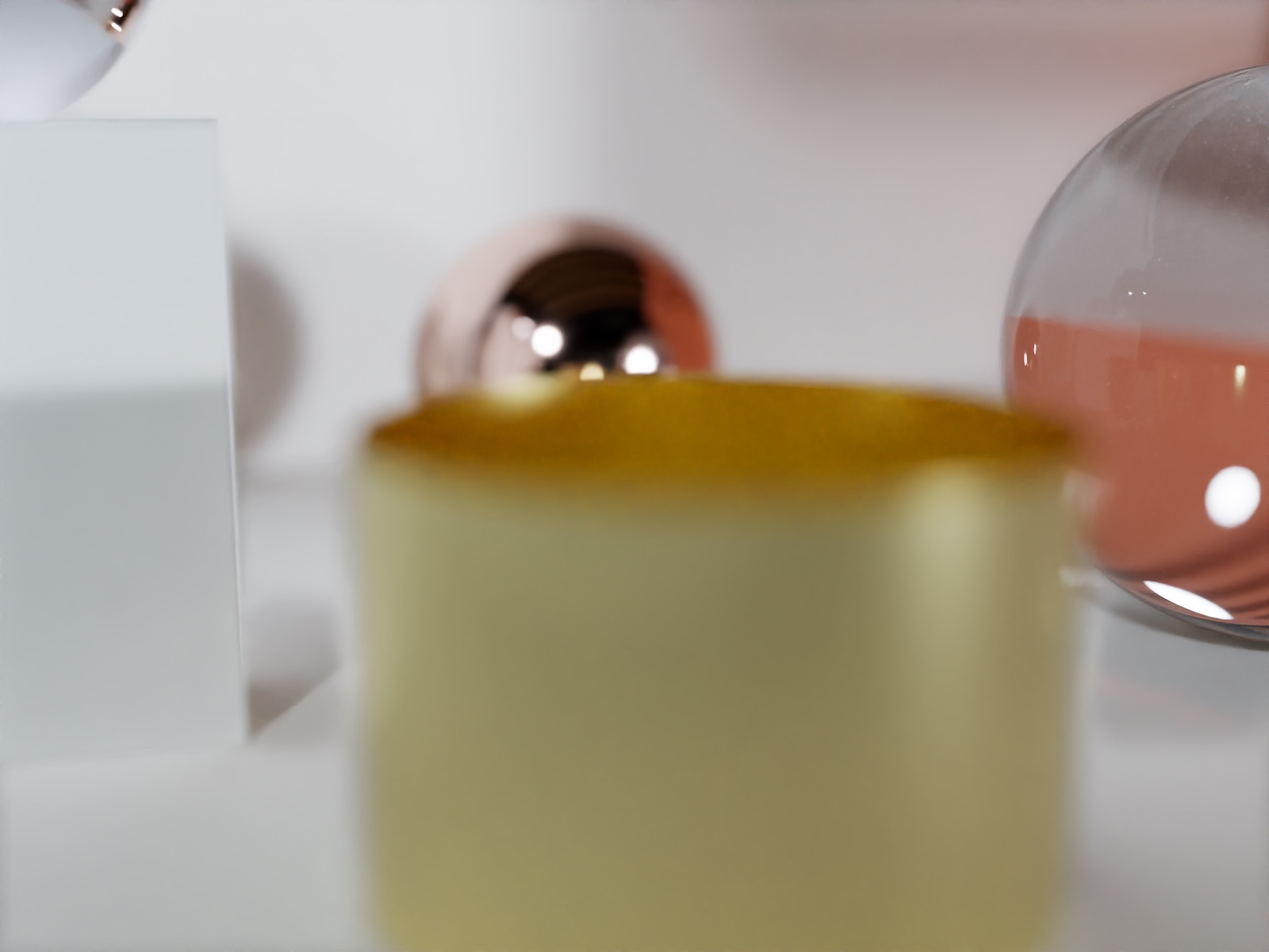
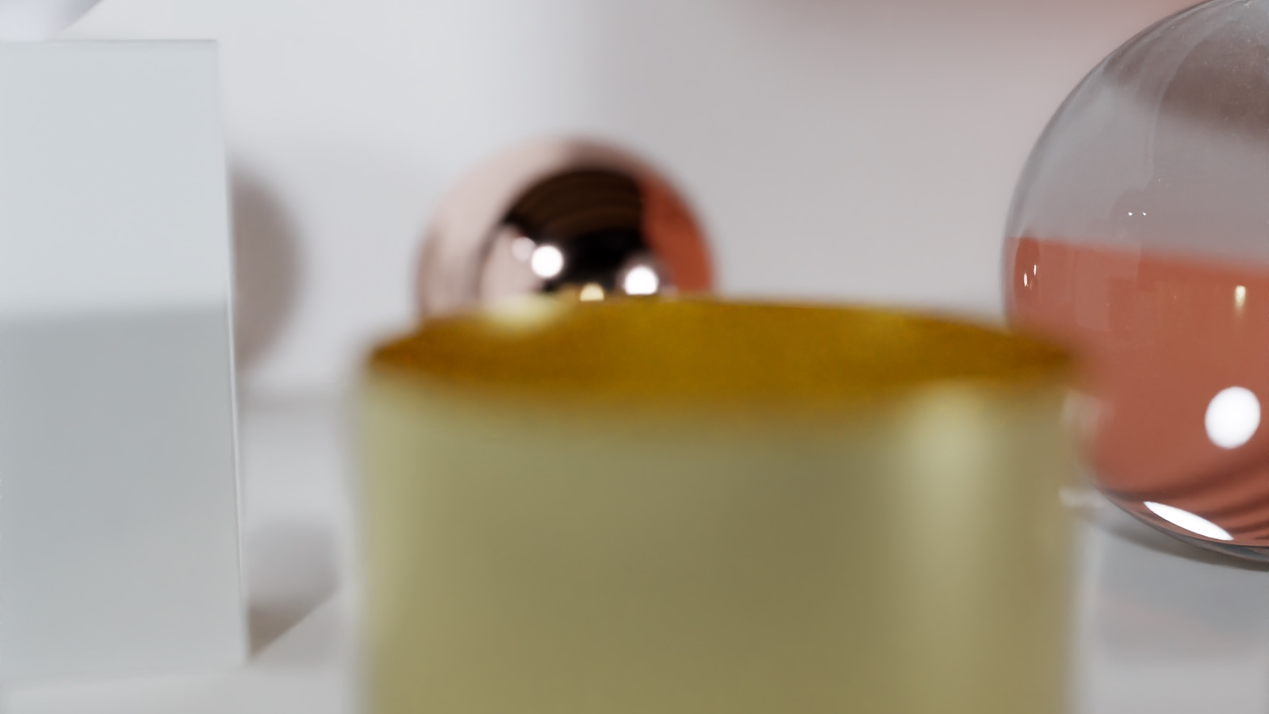
docs: redesign the README around a curated image gallery
Centre the header with badges under the hero render, add highlights, lay
out the gallery as matched-aspect image grids (caustics and OpenUSD,
spectral illuminants, depth of field and twilight sky), summarise
features in a table, and fold build, harness, benchmark and limitation
details into collapsible sections without dropping content. Keep the
side-view Shader Ball (cropped square) and remove the top-down one; crop
the depth-of-field render to 16:9. Attribution docs follow.

diff --git a/README.md b/README.md
@@ -1,60 +1,98 @@
+<div align="center">
+
 # Metal Vibe Tracer
 
-An experimental path tracer for macOS, built with Swift, AppKit, and Metal. Explore lighting and materials in real time, import scenes, and export denoised renders.
+**A spectral GPU path tracer for macOS, built with Swift and Metal.**<br>
+Real-time ReSTIR, OpenPBR materials, OpenUSD import, and denoised exports.
+
+![macOS 26+](https://img.shields.io/badge/macOS-26%2B-000000?logo=apple&logoColor=white)
+![Swift 6](https://img.shields.io/badge/Swift-6-F05138?logo=swift&logoColor=white)
+![Metal](https://img.shields.io/badge/Metal-ray%20tracing-8A8A8A)
+![License: MIT](https://img.shields.io/badge/license-MIT-blue)
+
+</div>
 
 ![Architectural Pavilion lit by an HDRI environment: mirror, copper and glass spheres and a gold cylinder](docs/images/pavilion-hdri.jpg)
 
-## Overview
+<p align="center"><sub>The built-in Pavilion scene lit by an HDRI environment, with spectral transport and a thin-lens camera. 1024 spp, denoised with Open Image Denoise.</sub></p>
 
-Metal Vibe Tracer is a GPU path tracer with an interactive studio UI. It implements recent real-time resampling research (ReSTIR DI, GI and PT, with 2025–2026 papers on reuse and variance reduction) on top of Metal hardware ray tracing, and it supports spectral light transport, OpenPBR materials, MaterialX graphs, and OpenUSD scene import.
+## Highlights
 
-- **Built on research papers:** every adopted method is cited, and [REFERENCES.md](REFERENCES.md) records how each one was adapted and which code implements it.
-- **Defaults chosen by measurement:** each new method is compared with the existing one on error, bias and frame time. It becomes the default only where it wins at equal time. The figures are in [tests/PERFORMANCE.md](tests/PERFORMANCE.md).
-- **Tested on the GPU:** the verification suite runs the production shaders and render path on Metal (179 checks passed on 2026-10-04, Apple M4).
-- **Honest about limitations:** open issues and experimental modes are listed under [Known limitations](#known-limitations).
-
-| Caustics and interreflection | OpenUSD import with OpenPBR shading |
-| --- | --- |
-| ![Cornell box with a mirror sphere and a glass sphere casting a caustic](docs/images/cornell-glass-mirror.jpg) | ![ASWF Standard Shader Ball rendered by Metal Vibe Tracer](docs/images/shaderball-studio.jpg) |
-
-These images were rendered with spectral transport and denoised with Open Image Denoise, through the app's own export path (`python3 scripts/render_showcase.py`). The environments are Poly Haven's Art Studio and Studio Small 01 HDRIs (CC0). The Shader Ball render is an adapted work of the [ASWF Standard Shader Ball](https://github.com/usd-wg/assets/tree/3b75c2dad6a494897557dcca0098257bcf42a8c6/full_assets/StandardShaderBall) by the ASWF USD Working Group (geometry and textures by Chris Rydalch), [CC-BY-4.0](https://creativecommons.org/licenses/by/4.0/). The changes are described in [docs/images/README.md](docs/images/README.md).
+- 🔬 **Recent research, implemented and cited.** ReSTIR DI, GI and PT, plus 2025–2026 papers on spatial reuse, reservoir splatting and control variates. [REFERENCES.md](REFERENCES.md) maps every method to the code that implements it.
+- 🌈 **Spectral light transport.** Four wavelengths per path, CIE illuminants, dispersion and thin-film interference, through every ReSTIR mode.
+- 📏 **Defaults chosen by measurement.** A new method becomes the default only where it wins at equal render time. The figures are in [tests/PERFORMANCE.md](tests/PERFORMANCE.md).
+- 🧪 **Tested on the GPU.** The verification suite runs the production shaders and render path on Metal (179 checks passed on 2026-10-04, Apple M4).
+- 🎬 **Production formats.** OpenPBR surfaces, MaterialX graphs, OpenUSD scenes, and OpenEXR export.
 
 ## Gallery
 
-**Spectral illuminants.** The same Cornell box lit by CIE illuminant A (incandescent), FL11 (narrow-band fluorescent) and HP1 (high-pressure sodium), set with **Light spectrum**. Sodium light has almost no green in its spectrum, so the green wall goes nearly black. RGB transport ignores these presets.
+<table>
+  <tr>
+    <td width="50%"><img src="docs/images/cornell-glass-mirror.jpg" alt="Cornell box with a mirror sphere and a glass sphere casting a caustic"></td>
+    <td width="50%"><img src="docs/images/shaderball-loft.jpg" alt="ASWF Standard Shader Ball imported from OpenUSD, side view, lit by an HDRI"></td>
+  </tr>
+  <tr>
+    <td align="center"><sub><b>Caustics and interreflection.</b> A glass sphere focuses the area light onto the floor.</sub></td>
+    <td align="center"><sub><b>OpenUSD import.</b> The ASWF Standard Shader Ball, with its materials mapped to OpenPBR.</sub></td>
+  </tr>
+</table>
 
-| Incandescent (A) | Fluorescent (FL11) | Sodium (HP1) |
-| --- | --- | --- |
-| ![Cornell box under incandescent light](docs/images/spectral-incandescent-a.jpg) | ![Cornell box under narrow-band fluorescent light](docs/images/spectral-fluorescent-fl11.jpg) | ![Cornell box under sodium light, with a near-black green wall](docs/images/spectral-sodium-hp1.jpg) |
+<table>
+  <tr>
+    <td width="33%"><img src="docs/images/spectral-incandescent-a.jpg" alt="Cornell box under incandescent light"></td>
+    <td width="33%"><img src="docs/images/spectral-fluorescent-fl11.jpg" alt="Cornell box under narrow-band fluorescent light"></td>
+    <td width="33%"><img src="docs/images/spectral-sodium-hp1.jpg" alt="Cornell box under sodium light, with a near-black green wall"></td>
+  </tr>
+  <tr>
+    <td align="center"><sub><b>Incandescent</b> (CIE A)</sub></td>
+    <td align="center"><sub><b>Fluorescent</b> (CIE FL11)</sub></td>
+    <td align="center"><sub><b>Sodium</b> (CIE HP1)</sub></td>
+  </tr>
+</table>
 
-| Thin-lens depth of field | Twilight sky | Shader Ball, side view |
-| --- | --- | --- |
-| ![Pavilion close-up focused on the copper sphere, foreground cylinder out of focus](docs/images/pavilion-depth-of-field.jpg) | ![Pavilion under the twilight sky preset with soft beam shadows](docs/images/pavilion-twilight.jpg) | ![ASWF Standard Shader Ball from the side, lit by an HDRI](docs/images/shaderball-loft.jpg) |
+<p align="center"><sub><b>Spectral illuminants.</b> The same box under three <b>Light spectrum</b> presets. Sodium light has almost no green in its spectrum, so the green wall goes nearly black. RGB transport ignores these presets.</sub></p>
 
-The side-view Shader Ball is under the same CC-BY-4.0 attribution as above, and its environment is Poly Haven's Photo Studio Loft Hall (CC0). Every shot is listed in `scripts/showcase.json`.
+<table>
+  <tr>
+    <td width="50%"><img src="docs/images/pavilion-depth-of-field.jpg" alt="Pavilion close-up focused on the copper sphere, with the foreground cylinder out of focus"></td>
+    <td width="50%"><img src="docs/images/pavilion-twilight.jpg" alt="Pavilion under the twilight sky preset with soft beam shadows"></td>
+  </tr>
+  <tr>
+    <td align="center"><sub><b>Thin-lens depth of field.</b> Focus on the copper sphere, with the gold cylinder in front out of focus.</sub></td>
+    <td align="center"><sub><b>Procedural sky.</b> The Twilight preset, with soft shadows from the roof beams.</sub></td>
+  </tr>
+</table>
+
+<sub>Every image was rendered through the app's own export path with `python3 scripts/render_showcase.py` (shots in [`scripts/showcase.json`](scripts/showcase.json)). The environments are Poly Haven HDRIs (CC0). The Shader Ball render is an adapted work of the [ASWF Standard Shader Ball](https://github.com/usd-wg/assets/tree/3b75c2dad6a494897557dcca0098257bcf42a8c6/full_assets/StandardShaderBall) by the ASWF USD Working Group (geometry and textures by Chris Rydalch), [CC-BY-4.0](https://creativecommons.org/licenses/by/4.0/). The changes are listed in [docs/images/README.md](docs/images/README.md).</sub>
 
 ## Features
 
+| | |
+| --- | --- |
+| **Path tracing** | ReSTIR DI with first-bounce ReSTIR GI on procedural scenes, and ReSTIR PT for imported scenes. Standard MIS, light-only and BSDF-only modes for comparison. |
+| **Light transport** | Spectral (default) or RGB. CIE illuminant presets, dispersion, and thin film. |
+| **Materials** | OpenPBR surfaces, image textures, normal maps, and a subset of MaterialX graphs. |
+| **Scenes** | Six procedural test scenes, OBJ import, and OpenUSD import with hierarchy, instances, materials, lights and cameras. Up to 64 million rendered triangles. |
+| **Acceleration** | Two-level instancing on Metal hardware ray tracing, with an exact software 4-wide BVH as a fallback. |
+| **Camera and lighting** | Thin-lens depth of field, procedural skies, HDRI environments, and editable area lights. |
+| **Denoising** | MetalFX for the interactive preview, and Open Image Denoise for snapshots and exports. |
+| **Viewport** | Beauty, albedo, world normals, depth, and material/roughness views. |
+| **Projects** | Portable `.vtrace` files with embedded assets, saved camera views, undo/redo, and autosave recovery. |
+| **Export** | sRGB PNG and linear HDR OpenEXR (32-bit float) at independent resolutions and sample counts. |
+
+<details>
+<summary><b>Technical details</b></summary>
+
 - **Path tracing:** ReSTIR with Standard MIS, light-only, and BSDF-only comparison modes. Imported scenes use ReSTIR PT, which reuses whole paths, including glossy, mirror and glass paths, with the improvements of ReSTIR PT Enhanced (Lin et al., SIGGRAPH 2022 and I3D 2026; `RESTIRPT2022`, `RESTIRPTE2026` in [REFERENCES.md](REFERENCES.md)). The procedural scenes use ReSTIR direct lighting with first-bounce diffuse ReSTIR GI, which is faster there; its spatial reuse can pick neighbours by compatibility-guided selection (Junkins et al., HPG 2026; `COMPATRESTIR2026`). An opt-in stochastic pairwise MIS spatial reuse (Hedstrom et al., Eurographics 2026; `SPMIS2026`) reuses DI, GI or PT samples from 64-pixel reuse cells without bias. ReSTIR PT shades pixels with spatio-temporal control variates (Shi et al., SIGGRAPH 2026; `RESTCV2026`): colour estimates accumulated over neighbouring pixels and frames, corrected by the reservoirs' own difference estimates, which lowers colour noise without bias.
 - **Light transport:** RGB or spectral. Spectral transport traces four wavelengths per path, after Christoph Peters' spectral rendering series (bounded-MESE reflectance spectra from sRGB, wavelengths importance-sampled by illuminant and colour-matching functions; `PETERS2019`, `FOURIERSRGB2019`, `PETERSBLOG2025`), with CIE illuminant presets for lights and the sun, dispersion and thin film (`HERO2014` for dispersive glass), through every ReSTIR mode. Automatic, the default since October 3, 2026, uses it for every scene.
-- **Materials:** OpenPBR surfaces, image textures, normal maps, and a supported subset of MaterialX graphs.
-- **Scenes:** six procedural test scenes, OBJ import, and OpenUSD scene import with hierarchy, instances, materials, lights, and cameras. Imported meshes are traced as instances through a two-level acceleration structure: Metal hardware ray tracing where a launch-time check finds it watertight (Apple M4 does), otherwise an exact software 4-wide SAH hierarchy. Up to 1,000,000 stored and 64,000,000 rendered triangles.
-- **Lighting:** procedural skies, HDRI environments, editable area lights, and a thin-lens camera.
-- **Denoising:** MetalFX interactive preview and Open Image Denoise for in-app snapshots and offline exports.
-- **Viewport:** beauty, albedo, world normals, depth, and material/roughness views.
-- **Projects:** portable `.vtrace` files with embedded assets stored once each, saved camera views, undo/redo, and autosave recovery.
-- **Export:** sRGB PNG and linear HDR OpenEXR (32-bit float RGB) at independent resolutions and sample counts.
+- **Scenes:** imported meshes are traced as instances through a two-level acceleration structure: Metal hardware ray tracing where a launch-time check finds it watertight (Apple M4 does), otherwise an exact software 4-wide SAH hierarchy. Up to 1,000,000 stored and 64,000,000 rendered triangles.
+- **Thin lens:** a uniform circular aperture and a focus plane perpendicular to the camera's forward axis (`PBRT2023`). The G-buffer, shading and MetalFX guide passes share each pixel's lens sample. It is a thin-lens approximation, not a multi-element optical model.
 
-## Requirements
-
-- macOS 26 or later
-- A Metal-capable GPU; tested on Apple M4
-- Xcode 27 command-line tools (Swift 6.4). The app, the GPU test suite and the benchmark compile in the Swift 6 language mode (`-swift-version 6`), so a Swift 6 toolchain is required.
-- Internet access for the first build
-
-MetalFX preview requires a supported GPU. OpenUSD import uses the command-line tools’ `/usr/bin/python3` (CPython 3.9); the import helper refuses other Python versions with a message.
+</details>
 
 ## Getting started
+
+**Requirements:** macOS 26 or later, a Metal-capable GPU (tested on Apple M4), Xcode 27 command-line tools (Swift 6.4), and internet access for the first build.
 
 ```sh
 git clone https://github.com/gabinfor/metal-vibe-tracer.git
@@ -63,11 +101,20 @@ cd metal-vibe-tracer
 open build/MetalVibeTracer.app
 ```
 
-The first build downloads pinned OpenUSD 26.8 and Open Image Denoise 2.5.0 runtimes, and solves the spectral colour grid from the vendored CIE data (`scripts/generate_spectral_tables.py`, about 100 s on an M4; cached afterwards). Later builds reuse the cache after checking it. The OIDN cache records every file's SHA-256 and the target architecture, so a cache made by an older build is prepared once more. A cached OpenUSD wheel that fails its checksum is moved to `build/usd-wheel/rejected/` and downloaded again. OpenPBR shader sources are vendored, and Metal shaders compile at runtime; the separate Metal command-line toolchain is not required.
+The first build downloads pinned OpenUSD 26.8 and Open Image Denoise 2.5.0 runtimes, and solves the spectral colour grid from the vendored CIE data (about 100 s on an M4; cached afterwards).
+
+<details>
+<summary><b>Build details</b></summary>
+
+The app, the GPU test suite and the benchmark compile in the Swift 6 language mode (`-swift-version 6`), so a Swift 6 toolchain is required. MetalFX preview requires a supported GPU. OpenUSD import uses the command-line tools’ `/usr/bin/python3` (CPython 3.9); the import helper refuses other Python versions with a message.
+
+The spectral colour grid is solved by `scripts/generate_spectral_tables.py`. Later builds reuse the cache after checking it. The OIDN cache records every file's SHA-256 and the target architecture, so a cache made by an older build is prepared once more. A cached OpenUSD wheel that fails its checksum is moved to `build/usd-wheel/rejected/` and downloaded again. OpenPBR shader sources are vendored, and Metal shaders compile at runtime; the separate Metal command-line toolchain is not required.
 
 `build.sh` compiles first and then assembles a staging bundle. `scripts/check_bundle.py` runs the bundled helpers from `/` with a minimal environment, and the staged bundle replaces `build/MetalVibeTracer.app` only if that check passes. The app loads its shaders, USD helper and OIDN runtime from its bundle only, never from the launch directory.
 
 If the checkout is inside iCloud Drive (for example `~/Documents`), the build marks `build/` with `com.apple.fileprovider.ignore#P` so that the roughly 1 GB tree stays local. Older builds may have left conflict copies such as `build/OpenUSD 2` or duplicate `.app` bundles. They are unused and can be deleted by hand. A checkout outside iCloud-synced folders avoids the issue.
+
+</details>
 
 ## Usage
 
@@ -86,36 +133,41 @@ Choose a scene in the inspector, then adjust its camera, lighting, materials, an
 | Frame selection / all imported objects | ⌘F / ⇧⌘F |
 | Close window / minimize / hide | ⌘W / ⌘M / ⌘H |
 
+For a final image, open **Export**, choose a resolution and sample count, and select OIDN, raw, or MetalFX output. See the [user guide](docs/USER_GUIDE.md) for material controls, project behavior, import coverage, and export details.
+
+<details>
+<summary><b>Export and project details</b></summary>
+
 The **Window** menu provides Minimize, Zoom and Bring All to Front. ⌘E and **Settings…** reveal the inspector if it is hidden.
 
-Use **OIDN Preview Current Frame** to denoise the current accumulation inside the app. For a final image, open **Export**, choose a resolution and sample count, and select OIDN, raw, or MetalFX output. PNG includes display adjustments and is sRGB-encoded. OpenEXR stores linear HDR radiance as 32-bit float RGB without an alpha channel, so values above 65504 are kept. MetalFX output, in the preview or in an export, is a display estimate, not radiometric data. The suite measured MetalFX/raw region-mean ratios of 1.03 on diffuse Cornell surfaces, 0.87 on diffuse Pavilion surfaces, 0.69 on reflective regions and 0.77 on the grazing gold cylinder. For linear radiance, export the raw or OIDN source as OpenEXR.
+Use **OIDN Preview Current Frame** to denoise the current accumulation inside the app. PNG includes display adjustments and is sRGB-encoded. OpenEXR stores linear HDR radiance as 32-bit float RGB without an alpha channel, so values above 65504 are kept. MetalFX output, in the preview or in an export, is a display estimate, not radiometric data. The suite measured MetalFX/raw region-mean ratios of 1.03 on diffuse Cornell surfaces, 0.87 on diffuse Pavilion surfaces, 0.69 on reflective regions and 0.77 on the grazing gold cylinder. For linear radiance, export the raw or OIDN source as OpenEXR.
 
 Projects embed imported assets and can be reopened without the original files. Since project format 3, each distinct image, environment or mesh is stored once per file, and autosaves write only assets that changed, as separate sidecar files. Older projects open and are saved as format 3; builds from before this change cannot open format-3 projects. Open, New and Open USD Scene ask Save / Don't Save / Cancel when the document has unsaved changes; a replaced unsaved document is also kept as `Autosave-previous.vtrace`. The app restores its latest autosave on startup, together with its project file association and edited state. An autosave that cannot be restored is moved aside as `Autosave-unrestorable-<date>.vtrace` and never overwritten. Quit waits for pending saves.
 
-See the [user guide](docs/USER_GUIDE.md) for material controls, project behavior, import coverage, and export details.
+</details>
 
-## Example assets
+### Example assets
 
 - [MaterialX examples](Examples/MaterialX/README.md)
 - [OpenUSD examples and reference scenes](Examples/OpenUSD/README.md)
-- [Poly Haven HDRI test selection](Examples/HDRI/README.md)
-
-To download the optional 4K HDRI selection locally (needed by `scripts/render_showcase.py`, which renders the README images through the export path):
-
-```sh
-python3 scripts/fetch_test_hdris.py
-```
+- [Poly Haven HDRI test selection](Examples/HDRI/README.md). Download it with `python3 scripts/fetch_test_hdris.py`. `scripts/render_showcase.py` needs it to render the README images.
 
 ## Development
 
 The renderer and embedded Metal kernels live in `main.swift`. App controls, project handling, importers, and export code are in `Sources/`.
 
 ```sh
-./build.sh
-python3 tests/verify.py
+./build.sh                                # build the app bundle
+python3 tests/verify.py                   # run the GPU verification suite
+MTL_DEBUG_LAYER=1 python3 tests/verify.py # with Metal API validation
+python3 tests/benchmark.py                # time the production render path
+python3 scripts/render_showcase.py        # re-render the README images
 ```
 
-The verification suite runs the production shaders on Metal and checks rendering, materials, denoising, imports, project persistence, and UI construction. GPU checks go through the production `PathTracerRenderer.renderFrame` path. GPU access is required. Native file dialogs and mouse interactions require manual checks.
+The verification suite runs the production shaders on Metal and checks rendering, materials, denoising, imports, project persistence, and UI construction. GPU checks go through the production `PathTracerRenderer.renderFrame` path. Native file dialogs and mouse interactions require manual checks.
+
+<details>
+<summary><b>Test harness and benchmark details</b></summary>
 
 `python3 tests/verify.py [--studio-only | --usd-only] [--require-reference]` runs the full suite, the Studio subset, or the OpenUSD subset. `--require-reference` makes a missing ASWF Shader Ball download fail instead of being skipped with a message. Unknown flags are rejected.
 
@@ -123,22 +175,23 @@ The verification suite runs the production shaders on Metal and checks rendering
 
 Each run writes diagnostic images and fixtures to its own `build/checks/runs/verify-<time>-<pid>/` directory, and `build/checks/latest` points to the newest run. The last three runs are kept. On GPUs without MetalFX's temporal denoised scaler, the MetalFX checks print `SKIP` and the suite exercises the raw fallback path instead.
 
-For Metal API validation:
-
-```sh
-MTL_DEBUG_LAYER=1 python3 tests/verify.py
-```
-
-The September 2026 audit, its remediation and the 2026-10-04 validation are archived in
-[docs/archive/](docs/archive/README.md).
-The application is currently distributed as an unsigned local build; signing,
-notarization, and clean-machine installation remain release packaging work.
-
 `python3 tests/benchmark.py [--baseline /path/to/previous/main.swift] [--report FILE] [--frames 12] [--rounds 2] [--output-tolerance 0.05]` times the production `renderFrame` path on fixed scenes. A baseline's shaders are compared only when their Uniforms layout, argument-buffer length and kernel bindings match the current host code, and each scenario's mean raw radiance agrees within `--output-tolerance`. Otherwise no timings are printed. Current measurements, from September 28, 2026 at `84db5e3`, are in [tests/PERFORMANCE.md](tests/PERFORMANCE.md), with the unedited report in [tests/PERFORMANCE-raw.txt](tests/PERFORMANCE-raw.txt). The October 2 Z++ sampler figures (static, moving-camera and MetalFX error, bias and time against PCG) head that file, with their raw measurements in [tests/PERFORMANCE-zsampling-raw.txt](tests/PERFORMANCE-zsampling-raw.txt); the September 29 figures for spatio-temporal control variates (per-frame, MetalFX and static error, bias, time and memory against resampled shading) follow, with their raw measurements in [tests/PERFORMANCE-restcv-raw.txt](tests/PERFORMANCE-restcv-raw.txt); the stochastic pairwise MIS figures follow, with theirs in [tests/PERFORMANCE-spmis-raw.txt](tests/PERFORMANCE-spmis-raw.txt). The September 29 reservoir-splatting figures (moving-camera error in disoccluded pixels, time, memory and bias against reprojection) follow, with their raw measurements in [tests/PERFORMANCE-splatting-raw.txt](tests/PERFORMANCE-splatting-raw.txt); the September 29 ReSTIR PT figures (error, bias, time and memory against ReSTIR GI) follow, with their reports in [tests/PERFORMANCE-restir-pt-raw.txt](tests/PERFORMANCE-restir-pt-raw.txt); the September 29 spatial neighbour selection figures follow, with their report in [tests/PERFORMANCE-neighbors-raw.txt](tests/PERFORMANCE-neighbors-raw.txt). Earlier speedup figures, which predate ReSTIR GI and could not be reproduced, have been withdrawn.
 
-See [REFERENCES.md](REFERENCES.md) for algorithm sources, dependency versions, and implementation adaptations.
+`scripts/render_showcase.py` renders the shots in `scripts/showcase.json` through `StudioController.startExport` with Open Image Denoise, as Export does in the app. `--scale` and `--samples` override every shot for quick framing previews.
+
+</details>
+
+The September 2026 audit, its remediation and the 2026-10-04 validation are archived in [docs/archive/](docs/archive/README.md). The application is currently distributed as an unsigned local build; signing, notarization, and clean-machine installation remain release packaging work. See [REFERENCES.md](REFERENCES.md) for algorithm sources, dependency versions, and implementation adaptations.
 
 ## Known limitations
+
+- **ReSTIR PT costs 1.3–2.3× the frame time**, so it is the default only for imported scenes, where it wins at equal time. Procedural scenes use first-bounce ReSTIR GI.
+- **Some spectral features are experimental.** Spectral MIS for rough dispersive glass measured about 4× the default's error (an open issue), and the sky models and imported UsdLux spectra are not spectral.
+- **Import coverage is partial.** OpenUSD import is a snapshot (no animation, subdivision, volumes, curves or USD export), and MaterialX support is a bounded importer.
+- **Fog and the ring-caustic boost** are approximate preview effects.
+
+<details>
+<summary><b>All limitations, with measurements</b></summary>
 
 - On the procedural scenes, ReSTIR GI reuses only the first diffuse indirect vertex; deeper and glossy transport use ordinary path tracing, and its practical reuse is biased by up to +0.25% of mean radiance. ReSTIR PT reuses every path and agreed with MIS within ±0.1%, but its shifts cost 1.3–2.3× the frame time: on the procedural scenes it lowers error by 0–20% at equal sample count but raises it by 22–105% at equal time, so the default (`IndirectReuse.automatic`) uses it only for imported scenes, where it wins at equal time (8–25% lower error). While the camera moves it lowers per-frame error by 37–75% in most scenes, at 1.7–3.6× the frame time. The **Indirect reuse** popup on the Render page overrides the default per project. Test builds (`-D VIBE_TESTING`) change the default everywhere with `VIBE_INDIRECT_REUSE=gi|pt|unified`. Use Standard MIS with fog and ring boost disabled for reference comparisons: at equal time it beats both ReSTIR modes for converged images on most scenes.
 - ReSTIR PT reuses temporally only while the view changes; its duplication-map decorrelation (biased) is off, and replay stream compaction, light tiles and dual motion vectors are not implemented.
@@ -154,11 +207,11 @@ See [REFERENCES.md](REFERENCES.md) for algorithm sources, dependency versions, a
 - MetalFX can soften detail. OIDN works on the accumulated image; raw output remains available for comparison.
 - Fog and the optional ring-caustic boost are approximate preview effects.
 
+</details>
+
 ## Acknowledgments
 
-Built with Apple Metal and MetalFX, Adobe OpenPBR, OpenUSD, and Intel Open Image Denoise. Optional HDRI test assets are from Poly Haven under CC0.
-
-Third-party licenses and attribution are retained with the vendored dependencies and bundled resources. Full citations and implementation notes are in [REFERENCES.md](REFERENCES.md).
+Built with Apple Metal and MetalFX, Adobe OpenPBR, OpenUSD, and Intel Open Image Denoise. HDRI environments are from Poly Haven under CC0. Third-party licenses and attribution are retained with the vendored dependencies and bundled resources. Full citations and implementation notes are in [REFERENCES.md](REFERENCES.md).
 
 ## License
 

diff --git a/REFERENCES.md b/REFERENCES.md
@@ -336,7 +336,7 @@ Carsten Benthin, Daniel Meister, Joshua Barczak, Rohan Mehalwal, John Tsakok, an
 
 Poly Haven, **Art Studio**, **Studio Small 01**, and **Photo Studio Loft Hall** environment maps. [Poly Haven HDRIs](https://polyhaven.com/hdris), CC0; individual asset pages are linked from `Examples/HDRI/README.md`. Retrieved 2026-09-07.
 
-**Used in:** `scripts/fetch_test_hdris.py` and the local files under `Examples/HDRI`. These are optional regression inputs and are not bundled with the application or redistributed by this repository. Since 2026-10-20 `scripts/render_showcase.py` also uses all three maps to light README images (`docs/images/pavilion-hdri.jpg`, `pavilion-depth-of-field.jpg`, `shaderball-studio.jpg`, `shaderball-loft.jpg`). Those renders are in the repository; the maps themselves are not. Since 2026-09-26 the script pins each 4K file's byte size and SHA-256 (listed in `Examples/HDRI/README.md`). It downloads to a temporary file and replaces a local copy only when the pinned values match.
+**Used in:** `scripts/fetch_test_hdris.py` and the local files under `Examples/HDRI`. These are optional regression inputs and are not bundled with the application or redistributed by this repository. Since 2026-10-20 `scripts/render_showcase.py` also uses all three maps to light README images (`docs/images/pavilion-hdri.jpg`, `pavilion-depth-of-field.jpg`, `shaderball-loft.jpg`). Those renders are in the repository; the maps themselves are not. Since 2026-09-26 the script pins each 4K file's byte size and SHA-256 (listed in `Examples/HDRI/README.md`). It downloads to a temporary file and replaces a local copy only when the pinned values match.
 
 ## Surface reflection
 
@@ -686,7 +686,7 @@ Cornell University Program of Computer Graphics. **Cornell Box Comparison.** Onl
 
 ASWF USD Working Group. **Standard Shader Ball**, repository revision `3b75c2dad6a494897557dcca0098257bcf42a8c6`. Geometry/textures: Chris Rydalch; specification/validation: André Mazzone. [Primary asset and documentation](https://github.com/usd-wg/assets/tree/3b75c2dad6a494897557dcca0098257bcf42a8c6/full_assets/StandardShaderBall). CC-BY-4.0; complete LICENCE/README retained by the downloader. This reimplementation acknowledges Thomas Anagnostou's original Simball inspiration; its documentation shows Houdini Karma renders.
 
-**Used in:** `scripts/fetch_reference_scene.py`, `Examples/OpenUSD/ShaderBall-triangulated.usda`, and optional `tests/USDChecks.swift` integration rendering. The local override selects triangulated surface geometry and the USD PreviewSurface plastic variant at frame 3. The original source is unchanged. The imported scene has 63,882 triangles including five rectangle lights; internal subdivision cages remain in the import report. Since 2026-09-28 no material falls back: the `neutral` material's OpenPBR `emission_luminance`/`emission_color` connect to an `image` that has no file in the default `internal_emitter = "off"` variant, which now evaluates to its zero default (`MATERIALX`). `tests/Fix_shaderball-emission.swift` asserts zero fallbacks, and imports the `internal_emitter = "bulb"` variant, whose clamped `emitter_bulb.exr` drives the same graph, to check that the neutral emission joins the light list and renders. This is an interoperability/visual inspection reference, not a validated pixel match to Karma. Downloads, generated `.vtrace` snapshots (`usd/StandardShaderBall-audit.vtrace`, `usd/import-report-audit.txt`) and PNGs (`openusd-audit-reference.png`) stay under ignored `build/reference-scenes` (downloads) and the per-run test directory `build/checks/runs/verify-*` (outputs; `build/checks/latest` points to the newest run). They are not bundled with the app. `tests/verify.py --require-reference` makes a missing download fail instead of skipping, and the check asserts the import counts. **Exception:** the repository contains two derived renders, `docs/images/shaderball-studio.jpg` and `docs/images/shaderball-loft.jpg`. Metal Vibe Tracer rendered them from this scene on 2026-10-20 with `scripts/render_showcase.py`, adding a `POLYHAVENHDRI` environment (Studio Small 01, Photo Studio Loft Hall). It replaces `docs/images/openusd-reference.png` (added 2026-09-08, re-added 2026-09-21, removed 2026-10-20). As adapted CC-BY-4.0 works, they carry adjacent attribution and a statement of changes in [docs/images/README.md](docs/images/README.md), `THIRD_PARTY_NOTICES.md`, and the README captions that show them.
+**Used in:** `scripts/fetch_reference_scene.py`, `Examples/OpenUSD/ShaderBall-triangulated.usda`, and optional `tests/USDChecks.swift` integration rendering. The local override selects triangulated surface geometry and the USD PreviewSurface plastic variant at frame 3. The original source is unchanged. The imported scene has 63,882 triangles including five rectangle lights; internal subdivision cages remain in the import report. Since 2026-09-28 no material falls back: the `neutral` material's OpenPBR `emission_luminance`/`emission_color` connect to an `image` that has no file in the default `internal_emitter = "off"` variant, which now evaluates to its zero default (`MATERIALX`). `tests/Fix_shaderball-emission.swift` asserts zero fallbacks, and imports the `internal_emitter = "bulb"` variant, whose clamped `emitter_bulb.exr` drives the same graph, to check that the neutral emission joins the light list and renders. This is an interoperability/visual inspection reference, not a validated pixel match to Karma. Downloads, generated `.vtrace` snapshots (`usd/StandardShaderBall-audit.vtrace`, `usd/import-report-audit.txt`) and PNGs (`openusd-audit-reference.png`) stay under ignored `build/reference-scenes` (downloads) and the per-run test directory `build/checks/runs/verify-*` (outputs; `build/checks/latest` points to the newest run). They are not bundled with the app. `tests/verify.py --require-reference` makes a missing download fail instead of skipping, and the check asserts the import counts. **Exception:** the repository contains one derived render, `docs/images/shaderball-loft.jpg`. Metal Vibe Tracer rendered it from this scene on 2026-10-20 with `scripts/render_showcase.py`, adding the `POLYHAVENHDRI` Photo Studio Loft Hall environment. It replaces `docs/images/openusd-reference.png` (added 2026-09-08, re-added 2026-09-21, removed 2026-10-20). As an adapted CC-BY-4.0 work, it carries adjacent attribution and a statement of changes in [docs/images/README.md](docs/images/README.md), `THIRD_PARTY_NOTICES.md`, and the README caption that shows it.
 
 ### ORCA_BISTRO — Larger reference candidate, not imported
 

diff --git a/docs/images/README.md b/docs/images/README.md
@@ -2,25 +2,24 @@
 
 Metal Vibe Tracer rendered these images for the project documentation. They are not bundled with the application.
 
-The README images were rendered on 2026-10-20 on an Apple M4 with the renderer of `8bd999a` with `python3 scripts/render_showcase.py`. The script reads the shots from `scripts/showcase.json` and exports each one through the app's Export path (`StudioController.startExport`, spectral transport by default, Open Image Denoise). The PNG output was converted to JPEG (quality 90) with `sips`.
+The README images were rendered on 2026-10-20 on an Apple M4 with `python3 scripts/render_showcase.py`, using the renderer code of `8bd999a`. The script reads the shots from `scripts/showcase.json` and exports each one through the app's Export path (`StudioController.startExport`, spectral transport by default, Open Image Denoise). The PNG output was cropped where noted and converted to JPEG (quality 90) with `sips`.
 
 | File | Content |
 | --- | --- |
 | `pavilion-hdri.jpg` | Built-in Architectural Pavilion lit by the Poly Haven **Art Studio** HDRI (CC0), with a thin-lens camera. 1920×1080, 1024 spp. |
 | `cornell-glass-mirror.jpg` | Built-in Cornell Glass & Mirror scene, showing the glass sphere's caustic. 1200×1200, 1024 spp. |
-| `shaderball-studio.jpg` | ASWF Standard Shader Ball imported from OpenUSD and lit by the Poly Haven **Studio Small 01** HDRI (CC0). 1600×1200, 512 spp (attribution below). |
 | `spectral-incandescent-a.jpg`, `spectral-fluorescent-fl11.jpg`, `spectral-sodium-hp1.jpg` | Built-in Cornell Glass & Mirror scene with the area light's **Light spectrum** set to CIE A, FL11 and HP1. 1000×1000, 1024 spp each. |
-| `pavilion-depth-of-field.jpg` | Built-in Pavilion close-up with a 0.09 aperture radius focused on the copper sphere, lit by the Poly Haven **Studio Small 01** HDRI (CC0). 1600×1200, 1024 spp. |
+| `pavilion-depth-of-field.jpg` | Built-in Pavilion close-up with a 0.09 aperture radius focused on the copper sphere, lit by the Poly Haven **Studio Small 01** HDRI (CC0). Rendered at 1600×1200, 1024 spp, and cropped to 1600×900 (rows 100–999) to match the twilight image beside it. |
 | `pavilion-twilight.jpg` | Built-in Pavilion under the **Twilight / Studio** sky preset, with the light spectrum set to CIE A. 1920×1080, 1024 spp. |
-| `shaderball-loft.jpg` | ASWF Standard Shader Ball, side view, lit by the Poly Haven **Photo Studio Loft Hall** HDRI (CC0). 1600×1200, 512 spp (attribution below). |
+| `shaderball-loft.jpg` | ASWF Standard Shader Ball, side view, lit by the Poly Haven **Photo Studio Loft Hall** HDRI (CC0). Rendered at 1600×1200, 512 spp, and cropped to 1200×1200 (columns 380–1579) to match the Cornell image beside it (attribution below). |
 | `grazing-cylinder.png` | Built-in grazing-angle cylinder regression comparison (commit `86f8c7d`, 2026-09-08). Not shown in the README. |
 
-## Attribution: `shaderball-studio.jpg` and `shaderball-loft.jpg`
+## Attribution: `shaderball-loft.jpg`
 
-These images are adapted works: a render of the **ASWF Standard Shader Ball** by the ASWF USD Working Group. Geometry and textures are by Chris Rydalch; specification and validation are by André Mazzone. The asset is inspired by Thomas Anagnostou's Simball.
+This image is an adapted work: a render of the **ASWF Standard Shader Ball** by the ASWF USD Working Group. Geometry and textures are by Chris Rydalch; specification and validation are by André Mazzone. The asset is inspired by Thomas Anagnostou's Simball.
 
 - Source: https://github.com/usd-wg/assets/tree/3b75c2dad6a494897557dcca0098257bcf42a8c6/full_assets/StandardShaderBall (pinned commit `3b75c2dad6a494897557dcca0098257bcf42a8c6`)
 - License: Creative Commons Attribution 4.0 International (CC-BY-4.0), https://creativecommons.org/licenses/by/4.0/
-- Changes: `scripts/fetch_reference_scene.py` added a separate override layer that selects the triangulated geometry and the USD PreviewSurface plastic variant at frame 3. The official OpenUSD SDK imported the scene into a flattened snapshot, which mapped supported PreviewSurface shading approximately to OpenPBR and reported the fallbacks. Metal Vibe Tracer then rendered it with its own path tracer, with a Poly Haven environment (Studio Small 01 or Photo Studio Loft Hall) added to the scene's own lights. The renders are not a pixel match to the Houdini Karma renders in the asset's documentation. The source asset files are unchanged.
+- Changes: `scripts/fetch_reference_scene.py` added a separate override layer that selects the triangulated geometry and the USD PreviewSurface plastic variant at frame 3. The official OpenUSD SDK imported the scene into a flattened snapshot, which mapped supported PreviewSurface shading approximately to OpenPBR and reported the fallbacks. Metal Vibe Tracer then rendered it with its own path tracer, with the Poly Haven Photo Studio Loft Hall environment added to the scene's own lights. The render is not a pixel match to the Houdini Karma renders in the asset's documentation. The source asset files are unchanged.
 
-Anyone sharing these images must keep this attribution and the license link (CC-BY-4.0, section 3). See `THIRD_PARTY_NOTICES.md` and `REFERENCES.md` (`ASWF_SHADERBALL`).
+Anyone sharing this image must keep this attribution and the license link (CC-BY-4.0, section 3). See `THIRD_PARTY_NOTICES.md` and `REFERENCES.md` (`ASWF_SHADERBALL`).

diff --git a/Examples/OpenUSD/README.md b/Examples/OpenUSD/README.md
@@ -24,7 +24,7 @@ Run `MTL_DEBUG_LAYER=1 python3 tests/verify.py --usd-only` to import through the
 
 Each run writes to its own directory, `build/checks/runs/verify-<time>-<pid>/`. `build/checks/latest` points to the newest run, and older runs beyond the last three are removed.
 
-Without the download the check is skipped with a message. Add `--require-reference` to make a missing scene fail instead. Earlier runs wrote `StandardShaderBall.vtrace`, `import-report.txt` and their `-audit` variants into `build/reference-scenes/`, and `openusd-reference.png` or `openusd-audit-reference.png` directly into `build/checks/`. Those files are stale. The repository copies `docs/images/shaderball-studio.jpg` and `shaderball-loft.jpg` are 2026-10-20 renders made by `scripts/render_showcase.py` from a fresh import of `ShaderBall-triangulated.usda`, and their CC-BY-4.0 attribution is in `docs/images/README.md`.
+Without the download the check is skipped with a message. Add `--require-reference` to make a missing scene fail instead. Earlier runs wrote `StandardShaderBall.vtrace`, `import-report.txt` and their `-audit` variants into `build/reference-scenes/`, and `openusd-reference.png` or `openusd-audit-reference.png` directly into `build/checks/`. Those files are stale. The repository copy `docs/images/shaderball-loft.jpg` is a 2026-10-20 render made by `scripts/render_showcase.py` from a fresh import of `ShaderBall-triangulated.usda`, and its CC-BY-4.0 attribution is in `docs/images/README.md`.
 
 This establishes a usable scene for visual inspection. It is **not yet a matched Karma benchmark**: three internal objects use subdivision control cages; PreviewSurface maps approximately to OpenPBR; ACEScg/OCIO transforms are absent. The unused external MaterialX variants also generate warnings because this SDK wheel lacks the MaterialX Sdf plugin. Selecting a supported PreviewSurface variant keeps the main surface usable. Keep these differences visible when comparing renders.
 

diff --git a/THIRD_PARTY_NOTICES.md b/THIRD_PARTY_NOTICES.md
@@ -52,12 +52,11 @@ source files are unchanged. The downloaded assets and renders/projects generated
 by the tests are optional local files under build/, not bundled with the
 application. See Examples/OpenUSD/README.md.
 
-The repository does contain two derived renders of this asset:
-docs/images/shaderball-studio.jpg and docs/images/shaderball-loft.jpg, Metal Vibe
-Tracer images of the adapted scene described above, lit additionally by CC0 Poly
-Haven environments. They are derived from the CC-BY-4.0 asset
-(https://creativecommons.org/licenses/by/4.0/); their adjacent attribution and
-statement of changes are in docs/images/README.md. They are not bundled with the
+The repository does contain one derived render of this asset:
+docs/images/shaderball-loft.jpg, a Metal Vibe Tracer image of the adapted scene
+described above, lit additionally by a CC0 Poly Haven environment. It is derived from the CC-BY-4.0 asset
+(https://creativecommons.org/licenses/by/4.0/); its adjacent attribution and
+statement of changes are in docs/images/README.md. It is not bundled with the
 application.
 
 ## Intel Open Image Denoise
